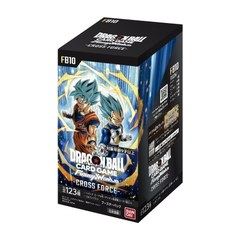
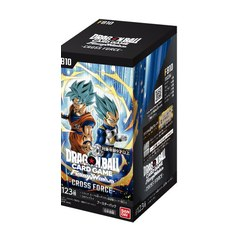
ワンピース・フュージョンワールドのBOXの画像を、バンダイ公式の画像（BOXの部分を切り抜き）に切り替える

Changed region(s): [[0.2333, 0.0583, 0.7875, 0.9333]]

diff --git a/scraper/images.py b/scraper/images.py
@@ -3,6 +3,7 @@
 商品に "image_url"（メーカー公式サイトの本体画像のURL）があれば、その画像を使う。
 メーカー以外の画像（PSA 鑑定品のトレカラウンジの画像など）は、"image_source" に出典の名前を書く。
 "image_crop": "slab" の商品は、PSA のケースごと写した画像なら、カードの部分だけ切り抜く（SLAB_CARD）。
+"image_crop": "right" の商品は、画像の右半分だけを使う（バンダイの商品画像は、左に1パック・右に BOX が並んでいる）。
 ないときだけ、Yahoo!ショッピングの商品検索APIで JAN から探す。
 
     python -m scraper.images                        # 画像がまだない商品などの画像を探す
@@ -139,11 +140,10 @@ def official_image(session, product, old):
     image = {"src": url, "url": product.get("image_page") or "", "origin": url,
              **({"source": product["image_source"]} if product.get("image_source") else {})}
     same = bool(old) and old.get("origin") == url and (IMAGE_DIR / f"{product['jan']}.jpg").exists()
-    return image if save(session, product["jan"], image, refresh=not same,
-                         slab=product.get("image_crop") == "slab") else None
+    return image if save(session, product["jan"], image, refresh=not same, crop=product.get("image_crop")) else None
 
 
-def save(session, jan, image, refresh=False, slab=False):
+def save(session, jan, image, refresh=False, crop=None):
     """画像を整えて public/images/<JAN>.jpg に保存し、image["src"] をそのパスにする。保存できなければ False。"""
     path = IMAGE_DIR / f"{jan}.jpg"
     if refresh or not path.exists():
@@ -153,7 +153,7 @@ def save(session, jan, image, refresh=False, slab=False):
         if data is None:
             return False
         IMAGE_DIR.mkdir(parents=True, exist_ok=True)
-        path.write_bytes(normalize(data, slab=slab))
+        path.write_bytes(normalize(data, crop=crop))
     image["src"] = f"/images/{jan}.jpg"
     return True
 
@@ -208,13 +208,15 @@ def _product_box(mask):
     return (region[0] + inner[0], region[1] + inner[1], region[0] + inner[2], region[1] + inner[3]) if inner else None
 
 
-def normalize(data, slab=False):
+def normalize(data, crop=None):
     """余白を切り取り、白い正方形の中央に同じ大きさで置いた JPEG にする。
-    slab なら、PSA のケースごと写した画像からカードの部分だけ切り抜く。"""
+    crop が "slab" なら PSA のケースごと写した画像からカードの部分だけ、"right" なら画像の右半分だけを使う。"""
     image = Image.open(io.BytesIO(data))
-    if slab and image.width / image.height < SLAB_RATIO:
-        w, h = image.size
+    w, h = image.size
+    if crop == "slab" and w / h < SLAB_RATIO:
         image = image.crop(tuple(round(v * (w if n % 2 == 0 else h)) for n, v in enumerate(SLAB_CARD)))
+    elif crop == "right":
+        image = image.crop((w // 2, 0, w, h))
     # 背景が透明な画像（公式サイトの PNG など）は、白い背景に載せる
     if image.mode in ("RGBA", "LA", "P"):
         image = image.convert("RGBA")
